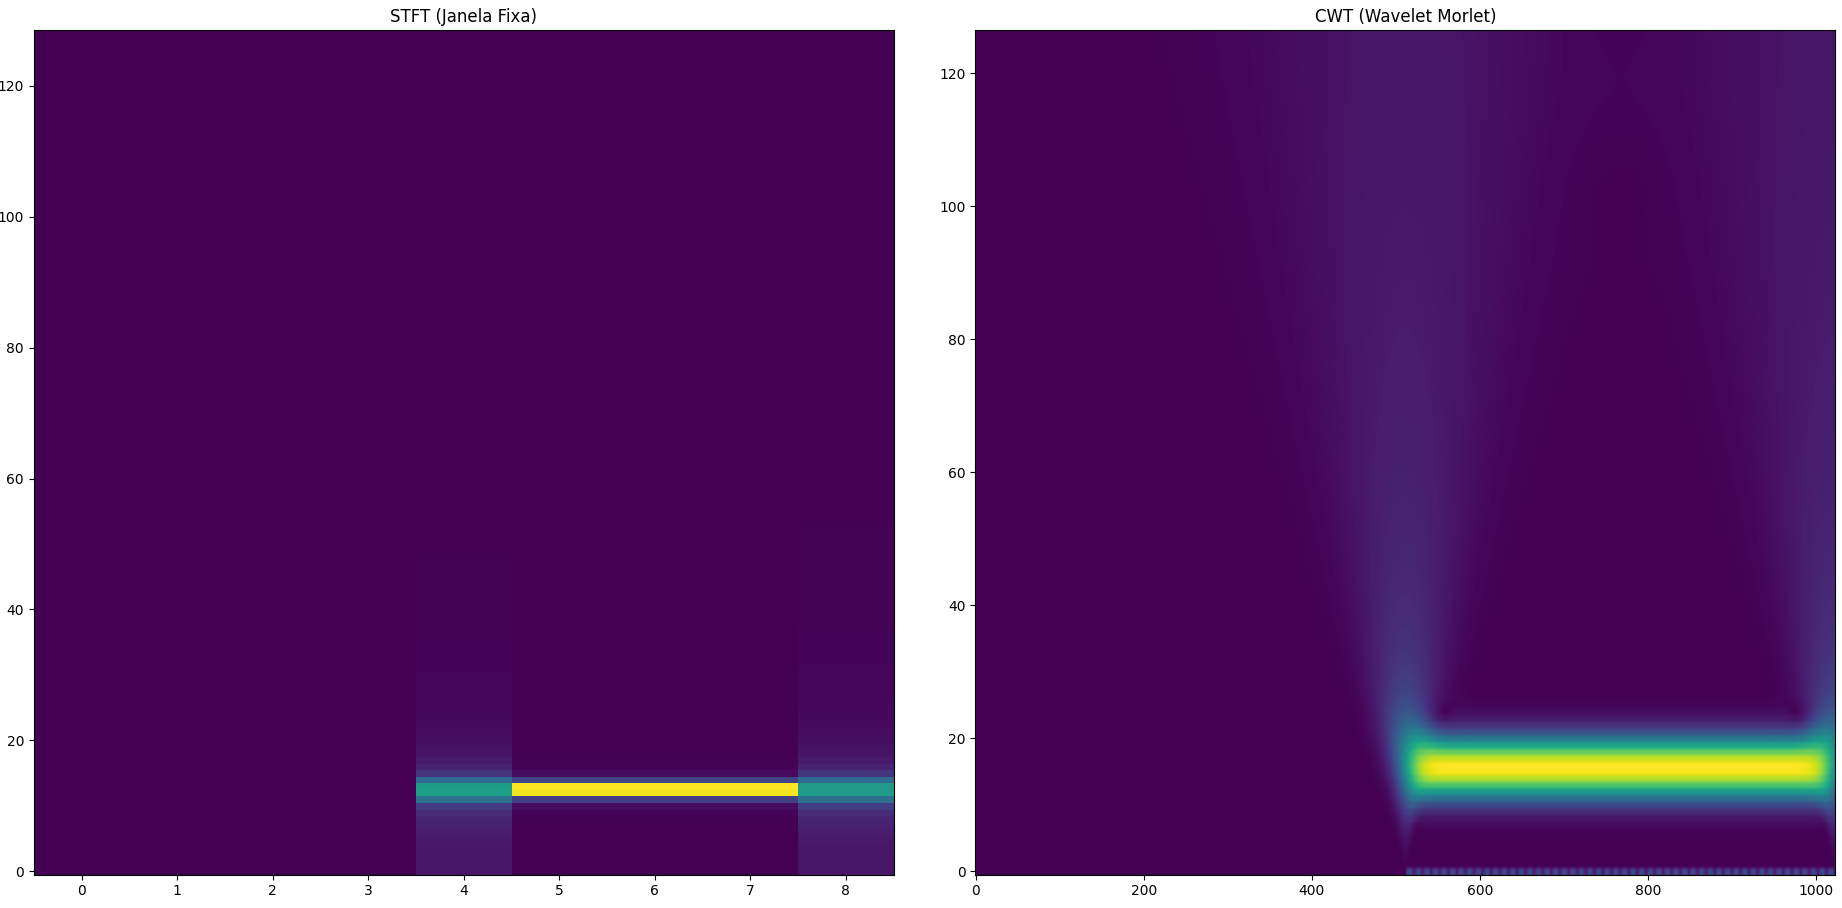
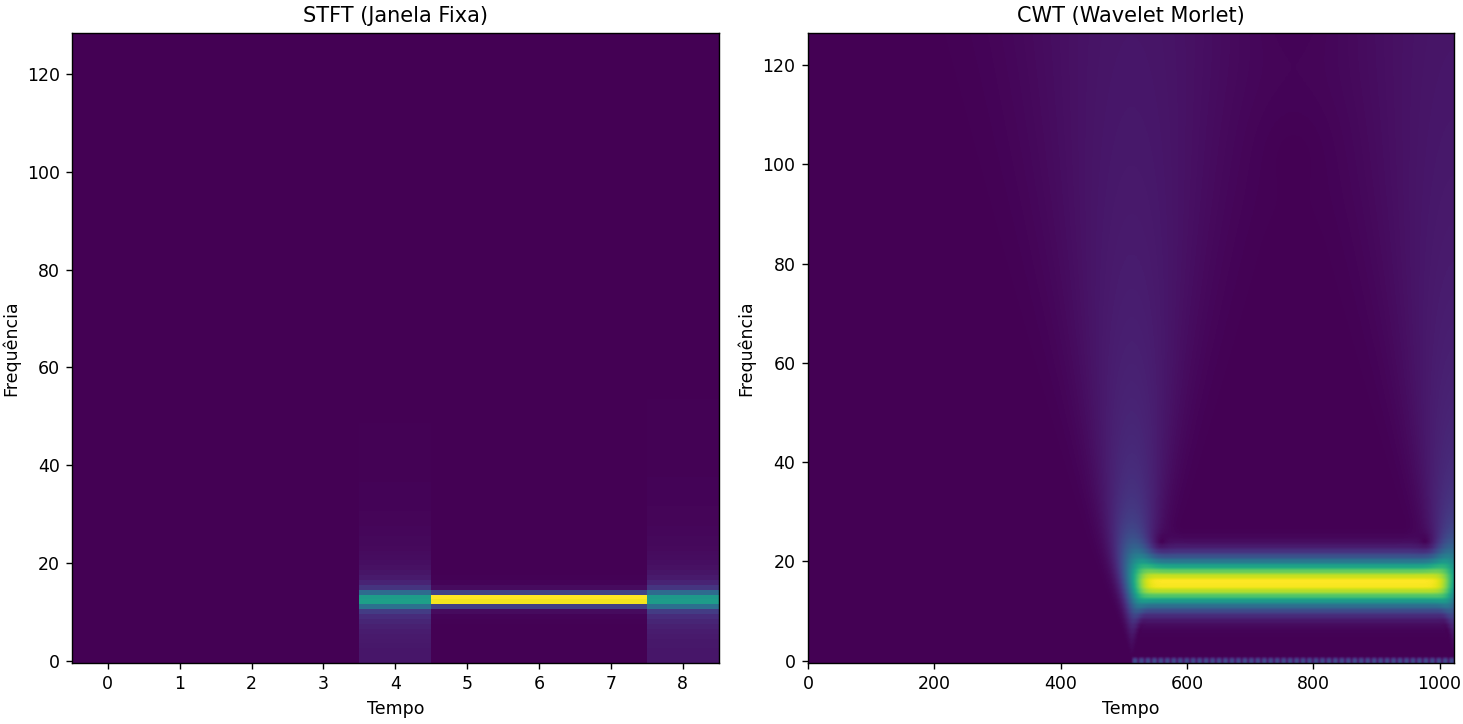
nomeando os eixos na img

Changed region(s): [[0.0, 0.0, 1.0, 1.0]]

diff --git a/01 - Visual/basico-wavelet.py b/01 - Visual/basico-wavelet.py
@@ -61,19 +61,25 @@ Retorna uma matriz:
 '''
 
 plt.figure(figsize=(12,6))
-plt.subplot(1,2,1)
-plt.imshow(np.abs(Zxx), aspect='auto', origin='lower')
+
+# --- STFT ---
+ax1 = plt.subplot(1,2,1)
+ax1.imshow(np.abs(Zxx), aspect='auto', origin='lower')
+ax1.set_title("STFT (Janela Fixa)")
+ax1.set_xlabel("Tempo")
+ax1.set_ylabel("Frequência")
 '''
     np.abs(Zxx) → magnitude (descarta fase)
     imshow → imagem tempo-frequência
     aspect='auto' → escala automática
     origin='lower' → frequências baixas embaixo
 '''
-plt.title("STFT (Janela Fixa)")
-
-plt.subplot(1,2,2)
-plt.imshow(np.abs(cwt_mat), aspect='auto', origin='lower')
-plt.title("CWT (Wavelet Morlet)")
+# --- CWT ---
+ax2 = plt.subplot(1,2,2)
+ax2.imshow(np.abs(cwt_mat), aspect='auto', origin='lower')
+ax2.set_title("CWT (Wavelet Morlet)")
+ax2.set_xlabel("Tempo")
+ax2.set_ylabel("Frequência")
 
 plt.tight_layout()
 plt.show()
